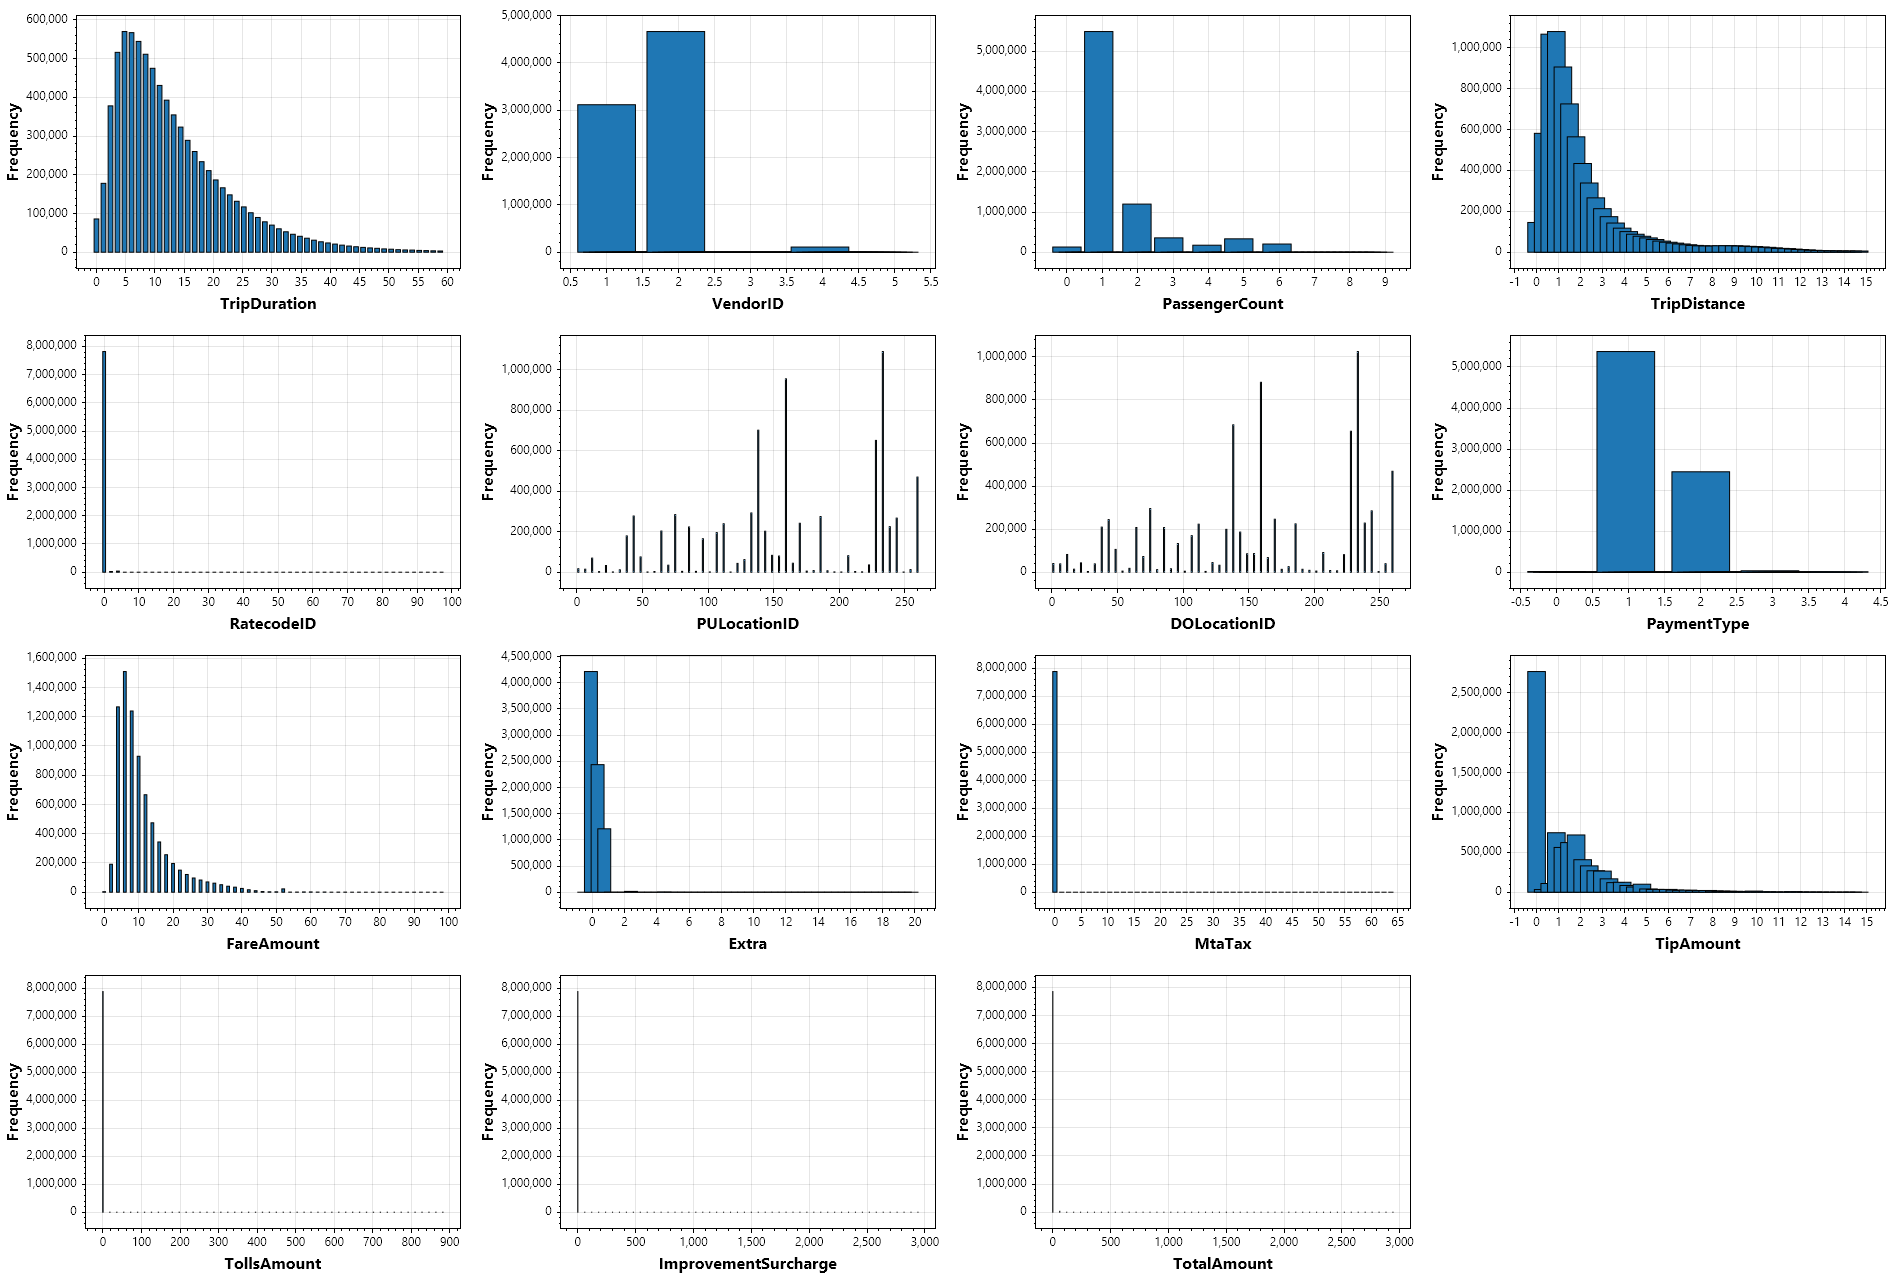
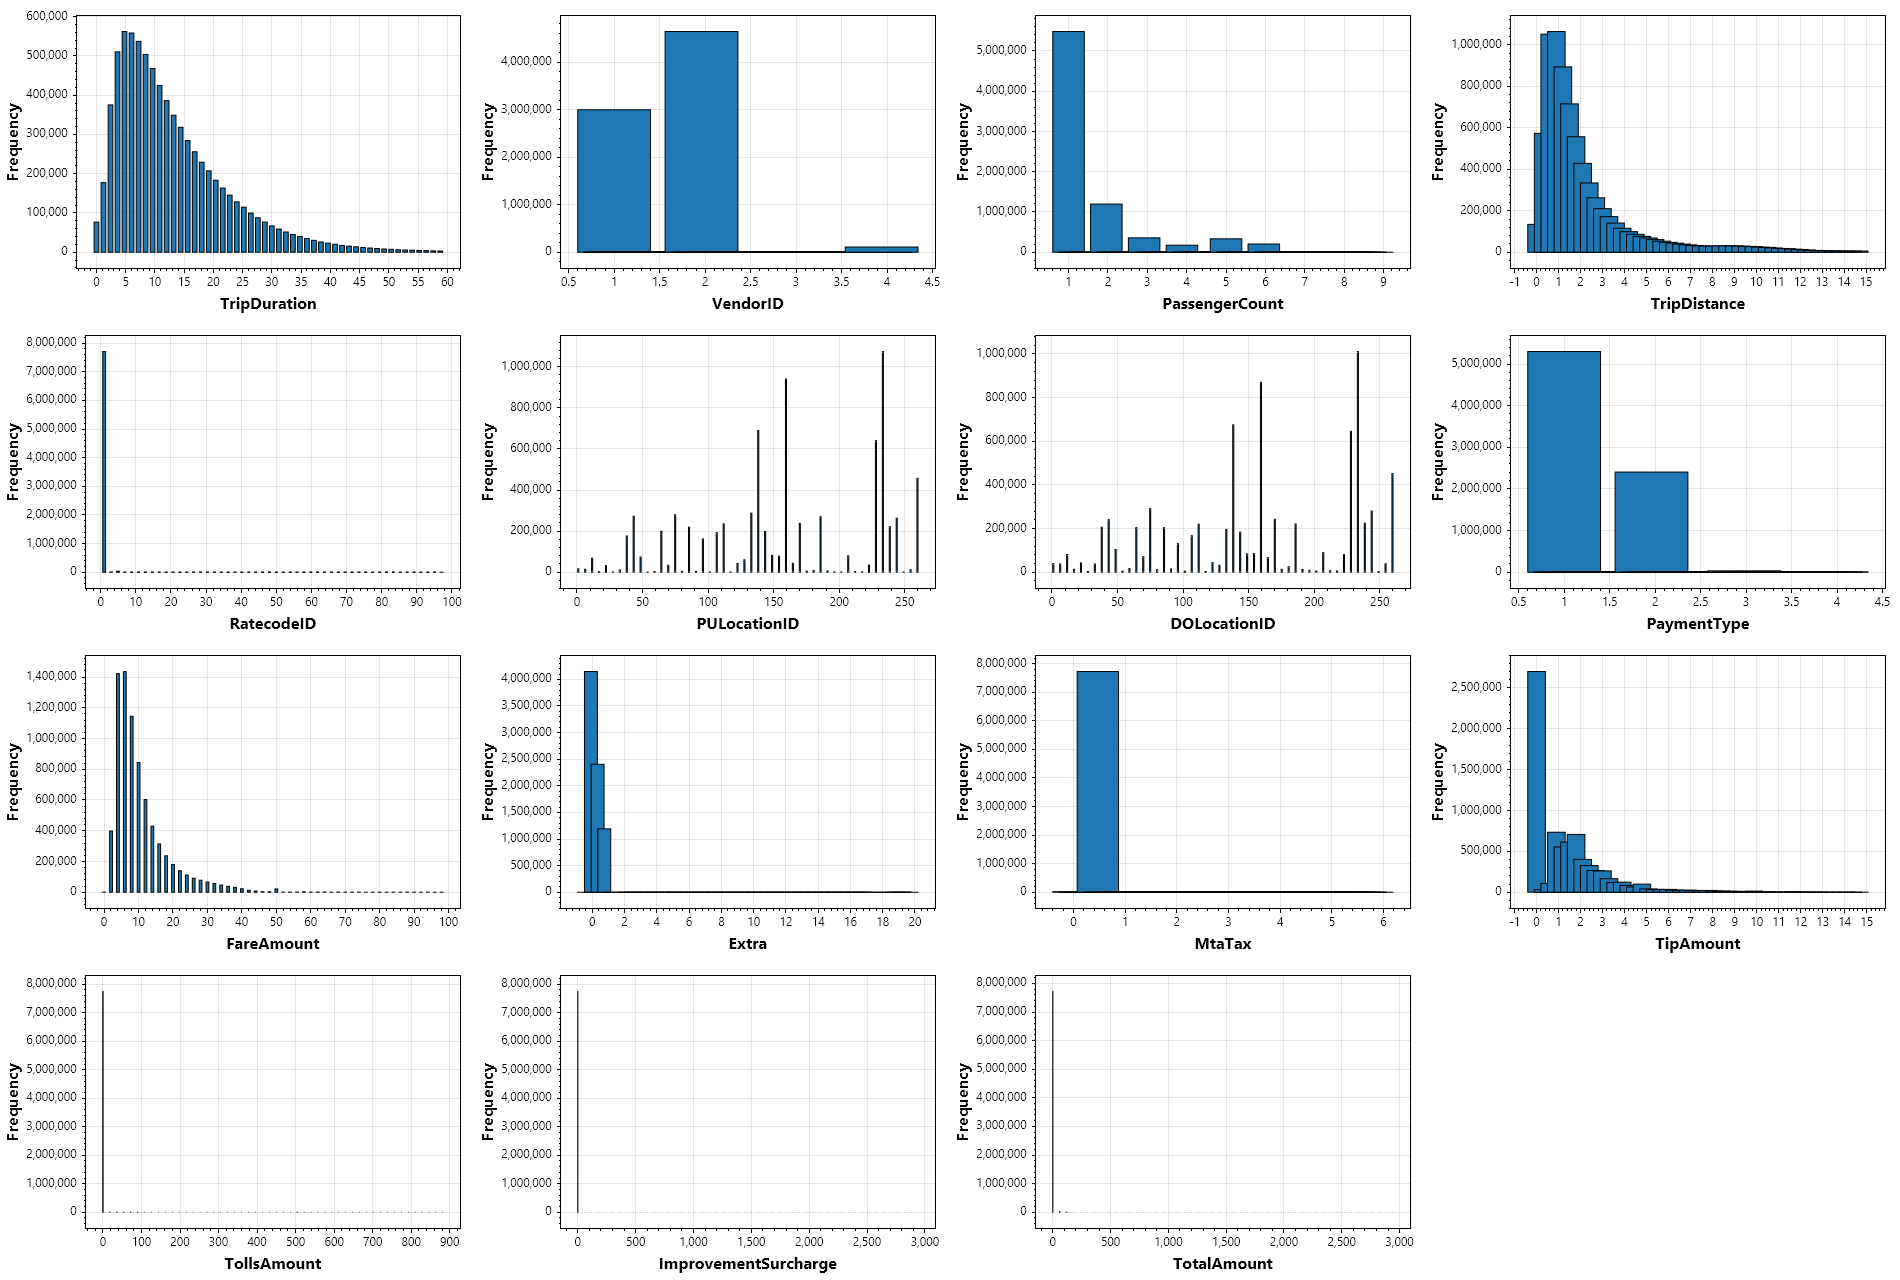
Finished New York Taxi

diff --git a/content/lab/mlnet-and-fsharp/mod/newyork-taxi/analyze-the-full-dataset.md b/content/lab/mlnet-and-fsharp/mod/newyork-taxi/analyze-the-full-dataset.md
@@ -5,8 +5,6 @@ layout: "default"
 sortkey: 130
 ---
 
-# Analyze The Full Dataset
-
 So, to recap: we designed the data transformation pipeline specifically for a dataset of 10,000 trips, covering the early morning of December 1st, 2018. We made many assumptions based off the histograms, correlation matrix and scatterplot grid and baked those assumptions into the design of the machine learning pipeline. 
 
 Then we loaded the parquet dataset that covers the full month of December. The regression metrics of the full dataset are considerably worse than the ones for the limited set. This might be because the model was overfitting on the small dataset, or it could be because we now need to alter the data transformations to better match the new patters in the data. 
@@ -20,24 +18,19 @@ We won't know for sure until we recalculate the histograms, the correlation matr
 Generating a new histogram matrix is very easy, because the code is still somewhere in your app. The code should look like this:
 
 ```fsharp
-// Get a list of taxi trips with trip duration
-let taxiTrips = 
-    mlContext.Data.CreateEnumerable<TaxiTripWithDuration>(filteredData, reuseRowObject = false)
-    |> List.ofSeq
-
 // get column names, skip row id and non-numeric columns
 let columnNames = 
-    typeof<TaxiTripWithDuration>.GetProperties()
-    |> Array.filter (fun p -> p.Name <> "RowID" && 
-                             (p.PropertyType = typeof<float32> || p.PropertyType = typeof<int>))
+    typeof<TaxiTrip>.GetProperties()
+    |> Array.filter (fun p -> p.Name <> "RowID" && (p.PropertyType = typeof<float32> || p.PropertyType = typeof<int>))
     |> Array.map (fun p -> p.Name)
 
-// calculate the histogram grid
-printfn "Generating histograms..."
-let grid = HistogramUtils.PlotAllHistograms<TaxiTripWithDuration>(taxiTrips, columnNames, columns = 4, rows = 4)
+// Calculate histogram grid
+printfn "\nCalculating histogram grid..."
+let grid = PlotAllHistograms taxiTrips columnNames 4 4
 
-// save the grid
-grid.SavePng("histograms.png", 1900, 1280)
+// Save histogram grid
+printfn "Saving histogram plots to histograms.png..."
+grid.SavePng("histograms.png", 1900, 1280) |> ignore
 ```
 
 Make sure you place this code right after the data filtering code, because the TLC dataset is full of weird taxi trips that will completely distort the histograms. You want to generate histograms from the filtered data. 
@@ -46,10 +39,12 @@ Here are the filters I used:
 
 ```fsharp
 // Filter outliers
-let mutable filteredData = mlContext.Data.FilterRowsByColumn(transformedData, "TripDuration", lowerBound = 0.0, upperBound = 60.0)
-filteredData <- mlContext.Data.FilterRowsByColumn(filteredData, "FareAmount", lowerBound = 0.0, upperBound = 100.0)
-filteredData <- mlContext.Data.FilterRowsByColumn(filteredData, "TripDistance", lowerBound = 0.0, upperBound = 15.0)
-filteredData <- mlContext.Data.FilterRowsByColumn(filteredData, "TipAmount", lowerBound = 0.0, upperBound = 15.0)
+printfn "\nFiltering outliers..."
+let mutable filteredData = mlContext.Data.FilterRowsByColumn(transformedData, "TripDuration", lowerBound = 0.01, upperBound = 60.0)
+filteredData <- mlContext.Data.FilterRowsByColumn(filteredData, "FareAmount", lowerBound = 0.01, upperBound = 100.0)
+filteredData <- mlContext.Data.FilterRowsByColumn(filteredData, "TripDistance", upperBound = 15.0)
+filteredData <- mlContext.Data.FilterRowsByColumn(filteredData, "TipAmount", upperBound = 15.0)
+filteredData <- mlContext.Data.FilterRowsByColumn(filteredData, "PassengerCount", lowerBound = 1.0)
 ```
 
 These are almost the same filters I have used previously, but I had to remove the passenger count filter and set all lower bounds to zero. I had to make this change, because Scottplot cannot calculate a histogram from a column with a nonzero lower bound. If you try, you'll get an error message.
@@ -62,7 +57,7 @@ Here's what I got:
 ![Histogram Grid For Full Dataset](../img/histograms-parquet.png)
 {.img-fluid .mb-4}
 
-This actually looks quite nice. The **TripDuration** and **TripDistance** histograms look okay with a long tail that's actually not too long. Looking at **FareAmount**, we could consider a new upper bound of $60 to shrink the long tail. And did  you notice the little blip at $52? This is the same statistical artefact that we also noticed in the scatterplot grid. There are a statistically distinct number of taxi trips with a fare amount of exactly $52, for unknown reasons. 
+This actually looks quite nice. The **TripDistance** histogram look okay with a long tail that's actually not too long. Looking at **FareAmount**, we could consider a new upper bound of $60 to shrink the long tail. And did  you notice the little blip at $52? This is the same statistical artefact that we also noticed in the scatterplot grid. There are a statistically distinct number of taxi trips with a fare amount of exactly $52, for unknown reasons. 
 
 The **ImprovementSurcharge** histogram shows crazy outliers with a surcharge of up to $3000. This completely distorts the **TotalAmount** histogram. Fortunately, we decided to use **FareAmount** as the label, so we don't have to worry about this. 
 
@@ -75,13 +70,13 @@ Now let's do the correlation matrix. Here is the code you need to enable in your
 
 ```fsharp
 // Calculate the correlation matrix
-let matrix = CorrelationUtils.CalculateCorrelationMatrix<TaxiTripWithDuration>(taxiTrips, columnNames)
+let matrix = CalculateCorrelationMatrix<TaxiTripWithDuration> (Seq.toArray taxiTripsWithDuration) columnNamesWithDuration
 
 // plot correlation matrix
-let plot = CorrelationUtils.PlotCorrelationMatrix(matrix, columnNames)
+let corrPlot = PlotCorrelationMatrix matrix columnNamesWithDuration
 
 // Save the plot to a file
-plot.SavePng("correlation-heatmap.png", 900, 800)
+corrPlot.SavePng("correlation-heatmap.png", 900, 800) |> ignore
 ```
 
 Make sure you place this code right after the histogram code, because you want to calculate the Pearson correlation matrix from the same data as shown in the histograms, for consistency. 
@@ -113,12 +108,14 @@ Finally, let's generate the scatterplot matrix to see if we can still spot linea
 Here is the code you need to enable in your app:
 
 ```fsharp
-// plot scatterplot matrix
+// column names to plot
 let scatterPlotColumns = [| "TripDuration"; "TripDistance"; "RatecodeID"; "FareAmount" |]
-let smplot = ScatterUtils.PlotScatterplotMatrix<TaxiTripWithDuration>(taxiTrips, scatterPlotColumns)
+
+// plot scatterplot matrix
+let smplot = PlotScatterplotMatrix<TaxiTripWithDuration> taxiTripsWithDuration scatterPlotColumns
 
 // Save the plot to a file
-smplot.SavePng("scatterplot-matrix.png", 1900, 1200)
+smplot.SavePng("scatterplot-matrix.png", 1900, 1200) |> ignore
 ```
 
 Make sure you place this code right after the correlation matrix code, again for consistency. 
@@ -136,16 +133,15 @@ You can see the problem right away. There still is a vaguely linear relationship
 Based on the new scatterplot grid, decide if you want to adjust your outlier filters.
 { .homework }
 
-Here are the new filters I'm going to use:
+Based on the histograms, correlation matrix and scatterplot grid, I dedicded to keep my filters unchanged:
 
-- **TripDuration** between 0 and 60 minutes (must be greater than 0)
-- **TripDistance** between 0 and 15 miles (must be greater than 0)
-- **FareAmount** between $0 and $60 (must be greater than 0)
+- **TripDuration** between 0 and 60 minutes
+- **TripDistance** between 0.01 and 15 miles
+- **FareAmount** between $0.01 and $100
 - **TipAmount** between $0 and $15
 - **PassengerCount** at least 1
-- **RatecodeID** between 1 and 6
 
-These filters will crash the histogram code, so I'll comment out those lines in my app.
+What will you do?
 
 In the next lesson, you'll have the opportunity to optimize your data transformation pipeline and regression model to get the best possible predictions for this dataset. How accurate can you make the fare predictions?  
 

diff --git a/content/lab/mlnet-and-fsharp/mod/newyork-taxi/load-the-full-dataset.md b/content/lab/mlnet-and-fsharp/mod/newyork-taxi/load-the-full-dataset.md
@@ -5,8 +5,6 @@ layout: "default"
 sortkey: 120
 ---
 
-# Load The Full Dataset
-
 So far, we have been working with a subset of the New York TLC dataset. The subset contains the first 10,000 taxi trips made in the early hours of the morning on December 1st, 2018. This is not a representative subset of all the trips made in December, but it allowed us to quickly design a data transformation pipeline and train a regression model on the data.
 
 Now, let's download the full dataset. 
@@ -33,7 +31,7 @@ let parquetTrips =
     ParquetSerializer.DeserializeAsync<TaxiTrip>("yellow_tripdata_2018-12.parquet")
         .GetAwaiter()
         .GetResult()
-data <- mlContext.Data.LoadFromEnumerable(taxiTrips)
+data <- mlContext.Data.LoadFromEnumerable(parquetTrips)
 ```
 
 The `ParquetSerializer.DeserializeAsync` method will load the file and produce a list of `TaxiTrip` objects (called with `GetAwaiter` and `GetResults` so that the synchronous calling thread will block while the data is loading), and then `LoadFromEnumerable` will convert the list to a dataview. 
@@ -95,8 +93,8 @@ This code works and will load all 8.1 million trips. But now we have a new probl
 We can fix this by manually converting every `ParquetTaxiTrip` to a `TaxiTrip`, like this:
 
 ```fsharp
-// Convert data to TaxiTrip list
-let taxiTrips = 
+// Convert ParquetTaxiTrip list to TaxiTrip list
+let convertedTrips = 
     parquetTrips 
     |> Seq.map (fun p -> 
         {
@@ -104,10 +102,10 @@ let taxiTrips =
             VendorID = p.VendorID.GetValueOrDefault(0L) |> int
             PickupDateTime = p.tpep_pickup_datetime.GetValueOrDefault(DateTime.MinValue)
             DropoffDateTime = p.tpep_dropoff_datetime.GetValueOrDefault(DateTime.MinValue)
-            PassengerCount = p.passenger_count.GetValueOrDefault(0.0) |> int
+            PassengerCount = p.passenger_count.GetValueOrDefault(0.0) |> float32
             TripDistance = p.trip_distance.GetValueOrDefault(0.0) |> float32
             RatecodeID = p.RatecodeID.GetValueOrDefault(0.0) |> int
-            StoreAndFwdFlag = p.store_and_fwd_flag ?? ""
+            StoreAndFwdFlag = p.store_and_fwd_flag
             PULocationID = p.PULocationID.GetValueOrDefault(0L) |> int
             DOLocationID = p.DOLocationID.GetValueOrDefault(0L) |> int
             PaymentType = p.payment_type.GetValueOrDefault(0L) |> int
@@ -122,7 +120,7 @@ let taxiTrips =
     |> List.ofSeq
 
 // Convert list to IDataView
-data <- mlContext.Data.LoadFromEnumerable(taxiTrips)
+mlContext.Data.LoadFromEnumerable(convertedTrips)
 ```
 
 This is not very efficient code, but it's good enough for now. 
@@ -139,11 +137,11 @@ Here's what I got:
 ![Training a Regression Model on all Taxi Trips](../img/evaluate-parquet.jpg)
 {.img-fluid .mb-4}
 
-The R-squared value is **0.872** which means that the model explains 87% of the variance in the fare amount. This is quite a bit lower than the previous result of 0.992, but still a good result. It suggests that the previous model trained on 10,000 trips was indeed overfitting, and we are now looking at a more realistic result. 
+The R-squared value is **0.835** which means that the model explains 84% of the variance in the fare amount. This is quite a bit lower than the previous result of 0.972, but still a good result. It suggests that the previous model trained on 10,000 trips was indeed overfitting, and we are now looking at a more realistic result. 
 
-The mean absolute error (MAE) is **$2.818**. It increased sevenfold compared to the previous MAE of 0.425. In this dataset we have a lot more variety: long trips, airport trips, surcharges, and possibly mislabeled fares. This naturally increases prediction difficulty. It's likely the model is not handling outliers, long-distance trips, or rare cases well.
+The mean absolute error (MAE) is **$1.856**. It increased fourfold compared to the previous MAE of 0.451. In this dataset we have a lot more variety: long trips, airport trips, surcharges, and possibly mislabeled fares. This naturally increases prediction difficulty. It's likely the model is not handling outliers, long-distance trips, or rare cases well.
 
-The root mean squared error (RMSE) is **$4.565**. The fact that the RMSE is twice as large as the MAE indicates that there are outliers where the model makes large errors in its prediction. This suggests that we may have to adjust our data filters for the new dataset. 
+The root mean squared error (RMSE) is **$3.232**. The fact that the RMSE is 1.7 times as large as the MAE indicates that there are outliers where the model makes large errors in its prediction. This suggests that we may have to adjust our data filters for the new dataset. 
 
 #### Conclusion 
 

diff --git a/content/lab/mlnet-and-fsharp/mod/newyork-taxi/conclusion.md b/content/lab/mlnet-and-fsharp/mod/newyork-taxi/conclusion.md
@@ -5,12 +5,10 @@ layout: "default"
 sortkey: 170
 ---
 
-# Conclusion
-
 This concludes the two regression modules in this lab. I hope you enjoyed training models on the California Housing and New York Taxi datasets. You now have hands-on experience building two F# apps that train models on a dataset. 
 
 The New York TLC dataset is a nice example of a large training dataset. We have 8.1 million taxi trips in the month of December alone. If you wanted to train your model on all of 2018, you would have to deal with roughly 100 million rows of data. Very large datasets are common in machine learning. Computer vision models are routinely trained on 10 million images, and contemporary large language models are trained on pretty much the entire Internet!
 
 If you need to produce other kinds of numerical predictions in the future, feel free to just copy and paste the code from the labs. The steps to build a regression pipeline are the same every time, all you need to tweak are the data processing steps, the learning algorithm and the hyperparameters.
 
-I hope that you're starting to realize that machine learning applications are actually very simple. With just a few hundred lines of F# code, you can process a dataset, train a model, evaluate the metrics, and then start generating predictions. F#'s functional programming features make the code more concise and expressive than equivalent C# implementations.
+I hope that you're starting to realize that machine learning applications are actually very simple. With just a few hundred lines of F# code, you can process a dataset, train a model, evaluate the metrics, and then start generating predictions. And F#'s functional programming features make the code much more concise and expressive than similar C# implementations.

diff --git a/content/lab/mlnet-and-fsharp/mod/newyork-taxi/hall-of-fame.md b/content/lab/mlnet-and-fsharp/mod/newyork-taxi/hall-of-fame.md
@@ -5,14 +5,12 @@ layout: "default"
 sortkey: 150
 ---
 
-# Hall Of Fame
-
 Would you like to be famous? You can [submit your best-performing model](mailto:mark@mdfteurope.com) for inclusion in this hall of fame, which lists the best regression evaluation scores for the New York TLC dataset. I've added my own results as a baseline, using the transformations I mentioned in the lab. 
 
 Can you beat my score?
 
 | Rank | Name | Algorithm | Transformations |   MAE   |  RMSE   |
 |------|------|-----------|-----------------|---------|---------|
-|  1   | Mark | SDCA      | As mentioned in lab | $2.197 | $3.407 |
+|  1   | Mark | SDCA      | As mentioned in lab | $1.856 | $3.232 |
 
 I will periodically collect new submissions and merge them into the hall of fame. I'll share the list in my courses and on social media. If you make the list, you'll be famous!

diff --git a/content/lab/mlnet-and-fsharp/mod/newyork-taxi/improve-your-results.md b/content/lab/mlnet-and-fsharp/mod/newyork-taxi/improve-your-results.md
@@ -5,8 +5,6 @@ layout: "default"
 sortkey: 140
 ---
 
-# Improve Your Results
-
 There are many factors that influence the quality of your model predictions, including how you process the dataset, which regression algorithm you pick, and how you configure the training hyperparameters.
 
 Here are a couple of things you could do to improve your model:

diff --git a/content/lab/mlnet-and-fsharp/mod/newyork-taxi/recap.md b/content/lab/mlnet-and-fsharp/mod/newyork-taxi/recap.md
@@ -5,8 +5,6 @@ layout: "default"
 sortkey: 160
 ---
 
-# Recap
-
 Congratulations on finishing the lab. Here's what you have learned.
 
 {{< encrypt >}}
